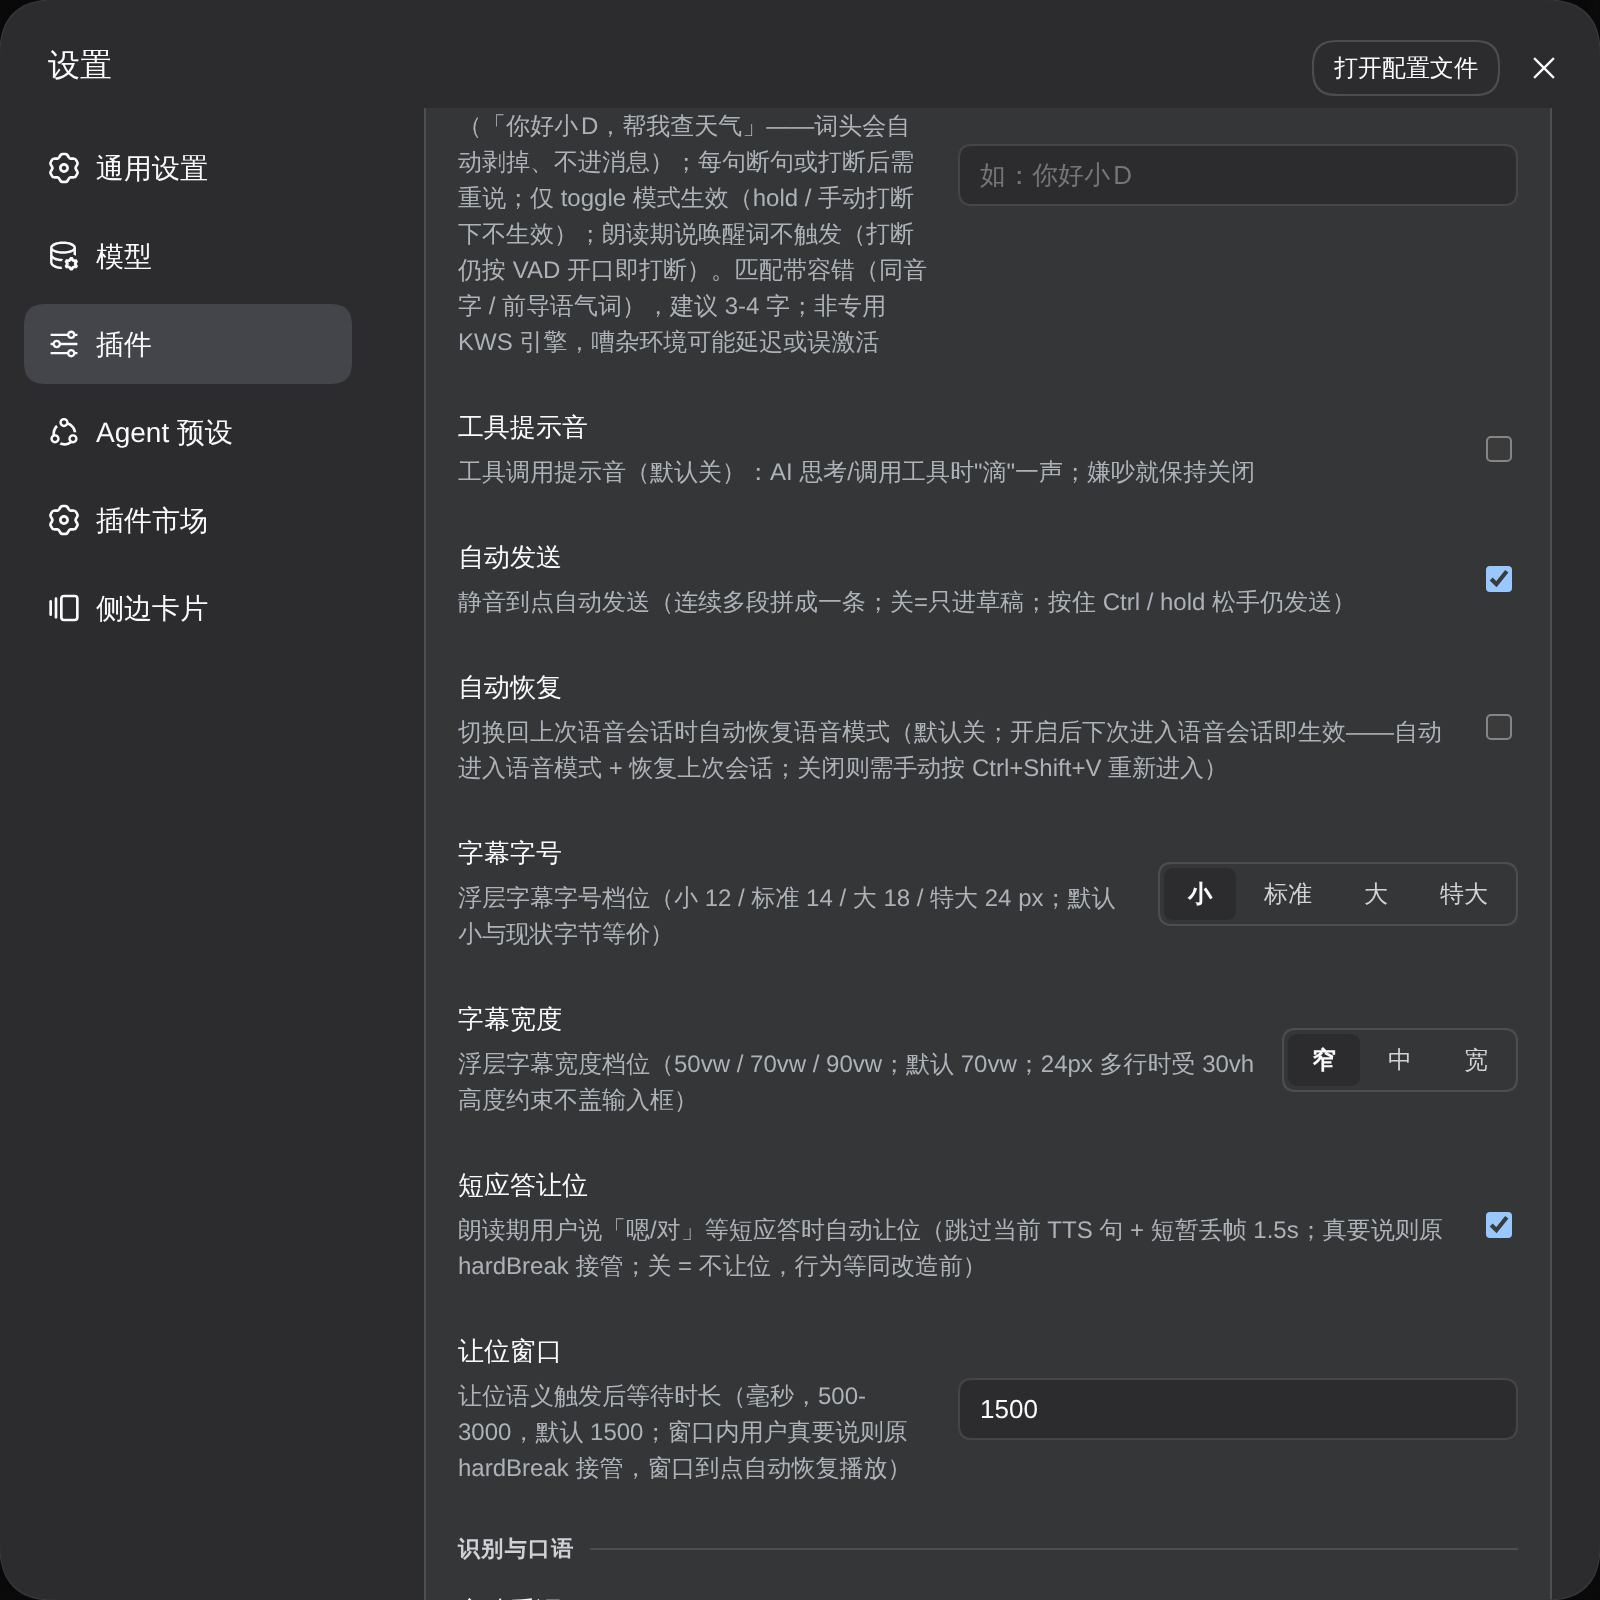
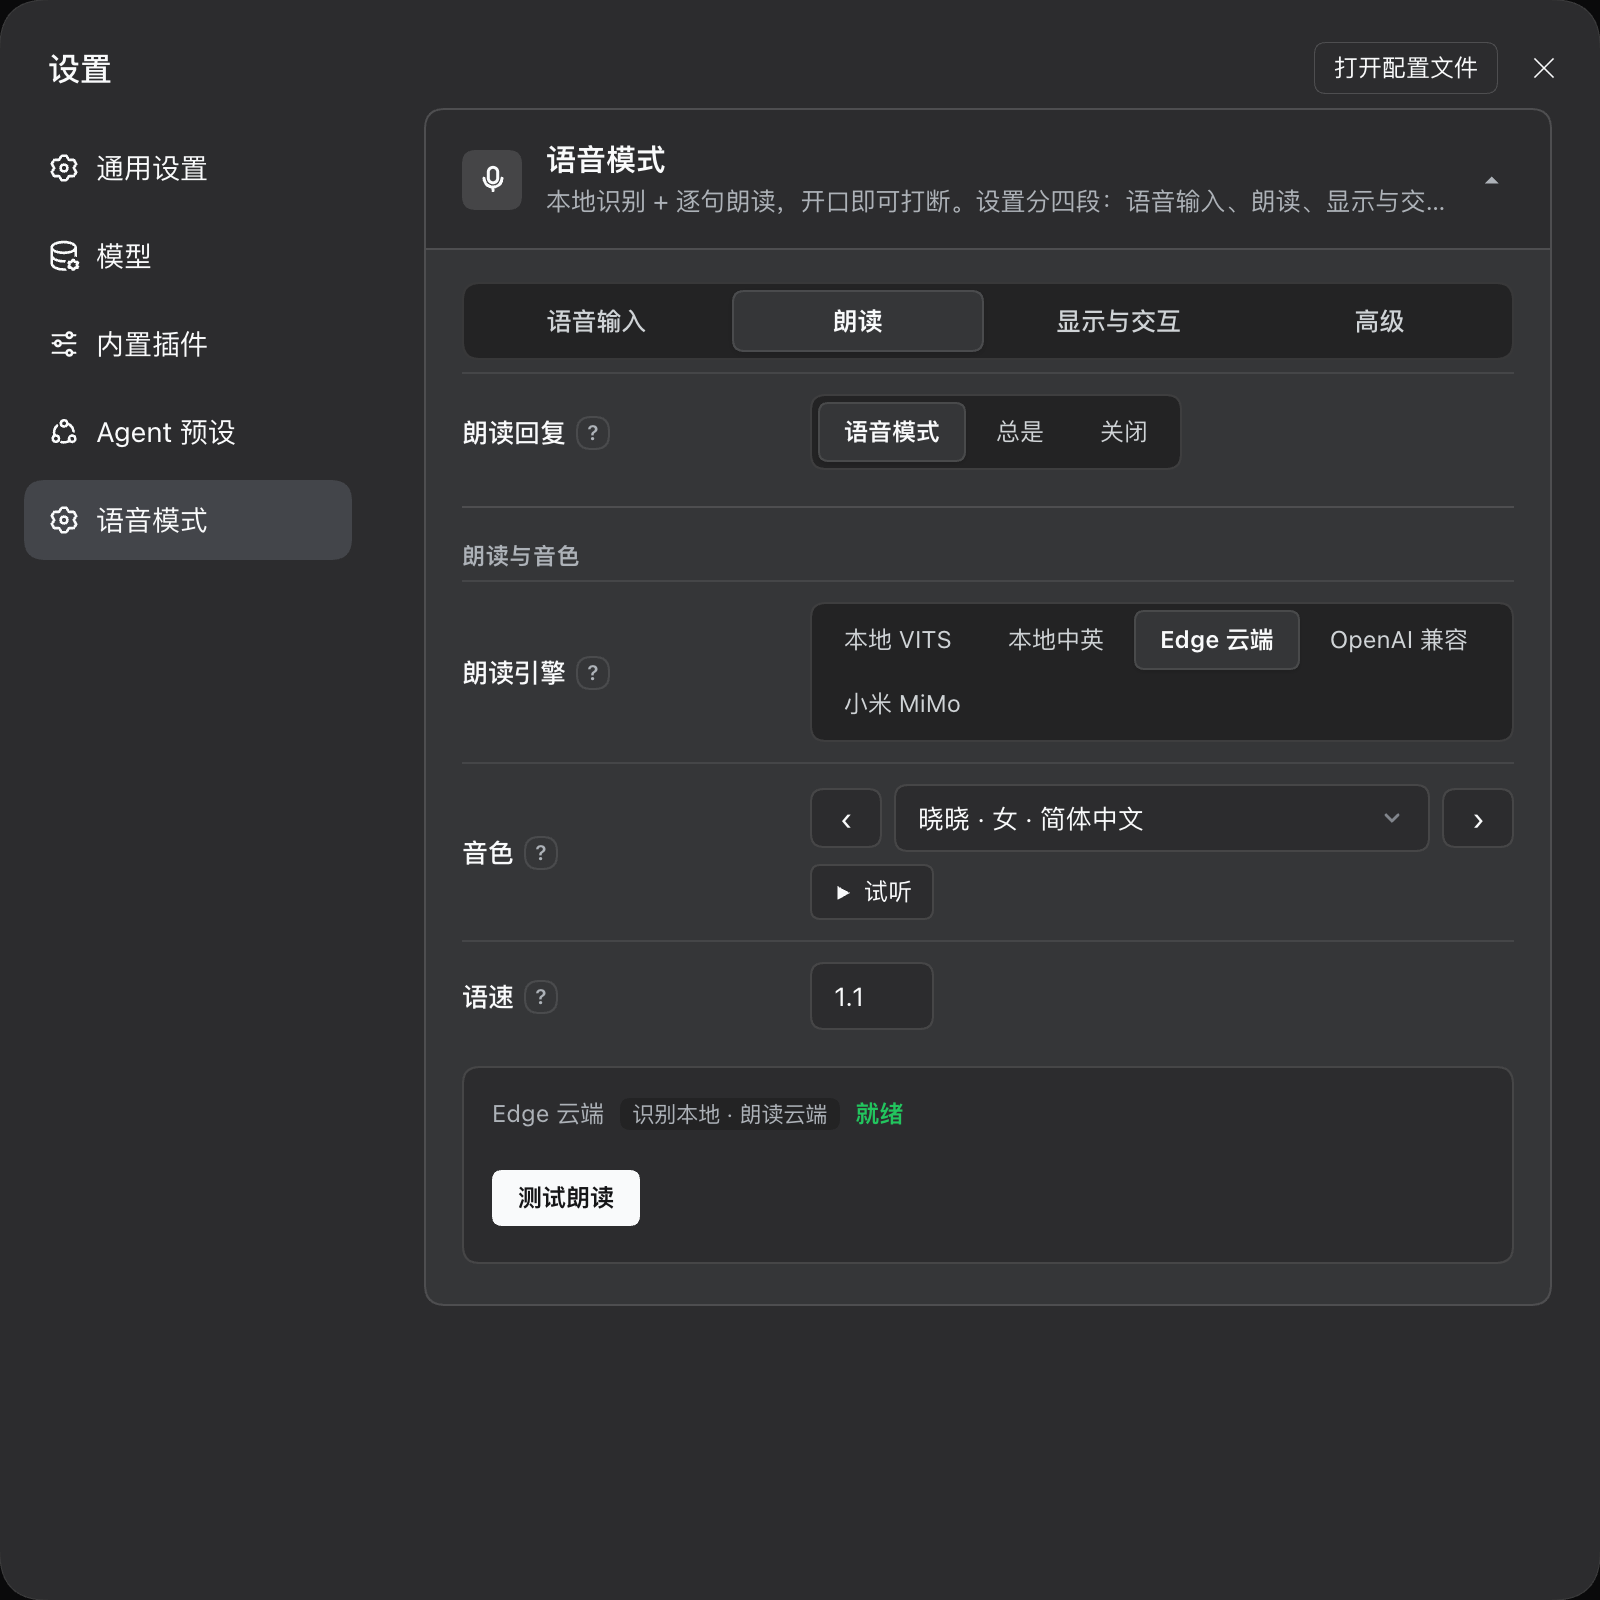
chore(release)：发版 v0.7.42（双语关键词与检索描述治理、详情页中英自动分流及商店截图更新）

diff --git a/CHANGELOG.md b/CHANGELOG.md
@@ -7,6 +7,14 @@
 
 ## [Unreleased]
 
+## [0.7.42] - 2026-11-21
+
+### 改进
+
+- **插件详情页中英文自动分流**：为中英文语言包补齐宿主插件详情规范中的详情文档路径映射（中文界面加载中文说明文档，英文及其他非中文界面回退加载英文说明文档），修复英文界面下在宿主「插件 → 已安装 / 发现」详情页默认显示中文文档的问题，并更新双语摘要文案。
+- **跨生态检索关键词与双端清单一致性治理**：重构发布包与仓库根清单的中英双语描述及 54 项检索关键词（补齐 `stt`、`push-to-talk`、`read-aloud`、`edge-tts`、`vits`、`offline`、`语音输入`、`语音对话`、`语音识别`、`语音合成`、`朗读`、`按住说话`、`实时字幕`、`唤醒词`、`离线语音` 等高频检索词），补充子目录包仓库路径声明与根清单同级依赖声明；扩展 `scripts/check-root-manifest.mjs`（`pluginKeywords` / `pluginFiles`）机械门禁，强制锁定根与插件清单的关键词、同级依赖、语言包详情映射及商店预览素材清单一致性。
+- **商店预览截图更新**：将 `plugin/dsh-voice-mode/assets/settings-panel.png` 更新为新版四分段设置面板的高清实测对话框截图（不含侧边栏会话列表）。
+
 ## [0.7.41] - 2026-11-21
 
 ### 新增
